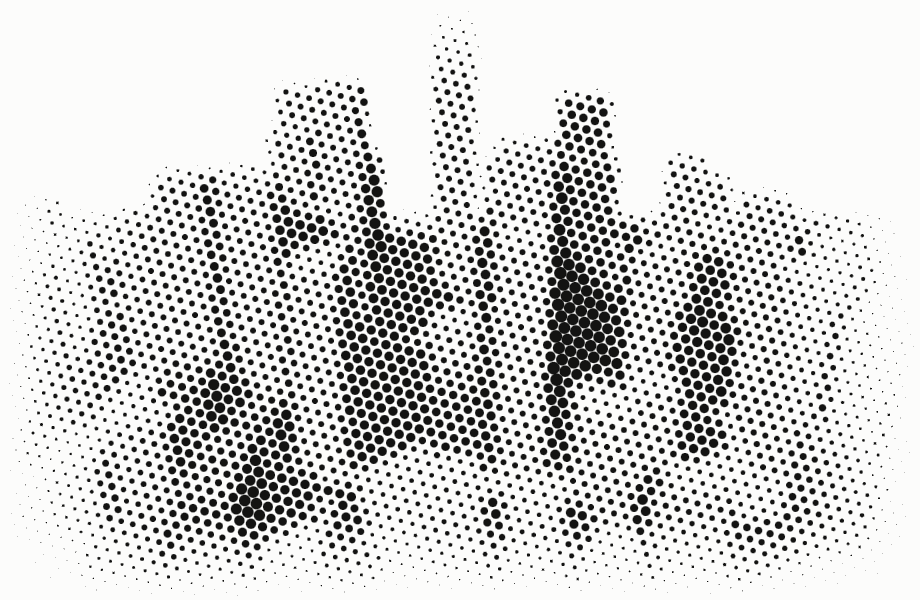
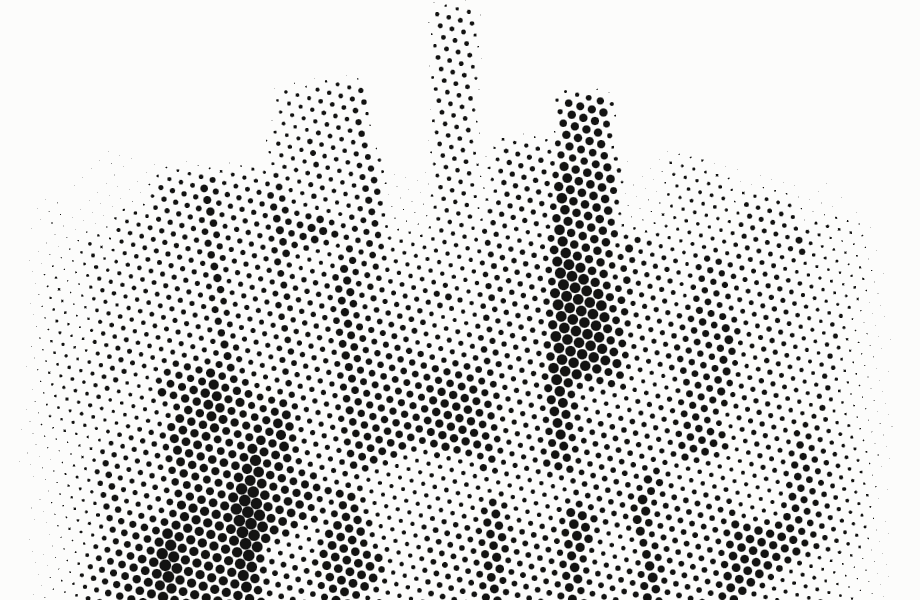
Give every subject a landscape through one shared ground helper

diff --git a/prototypes/dot-foundry.html b/prototypes/dot-foundry.html
@@ -53305,6 +53305,56 @@ const camFor = (id, role) => CAM_ROLE[id + ':' + role] || CAM[id];
    ground forms then have something to work with. */
 const TONES = ['#D6D6D4', '#B8B8B6', '#9C9C9A', '#7A7A78', '#565654'];
 
+/* One ground for every subject, so five hand-rolled slabs cannot drift into
+   five different landscapes. Three parts: a displaced plane, a ridge silhouette
+   at the far edge, and a sparse scatter between the two. All primitives, all
+   driven by the subject's seeded rnd, so scenes stay deterministic. */
+function ground(g, TONE, rnd, o){
+  const amp = o.amp != null ? o.amp : 1.0;
+  const flat = o.flat != null ? o.flat : 26;
+  if (o.plane !== false){
+    const geo = new THREE.PlaneGeometry(o.w, o.d, 60, 44);
+    geo.rotateX(-Math.PI/2);
+    const p = geo.attributes.position;
+    for (let i=0;i<p.count;i++){
+      const x = p.getX(i), z = p.getZ(i);
+      /* Displacement is held at zero across the subject's footprint and ramps
+         in beyond it. Without this, a container yard sitting at y = 0 sinks
+         into a trough or floats over a crest and the scene reads as broken. */
+      const k = Math.min(1, Math.max(0, (Math.hypot(x, z) - flat) / 14));
+      const n = Math.sin(x*.09)*0.9 + Math.cos(z*.11)*0.7 + Math.sin((x+z)*.05)*1.1;
+      p.setY(i, n * amp * k);
+    }
+    geo.computeVertexNormals();
+    const plane = new THREE.Mesh(geo, TONE[1]);
+    plane.position.y = -0.2;
+    plane.receiveShadow = true;
+    g.add(plane);
+  }
+
+  if (o.ridge){
+    /* The far horizon, in the lightest tone so it reads as distance rather than
+       as a second subject. Fog thins it further at render time. */
+    const far = -o.d/2 + 4;
+    for (let i=0;i<26;i++){
+      const w = o.w/26;
+      const h = o.ridge * (0.45 + rnd()*0.55);
+      const m = new THREE.Mesh(new THREE.BoxGeometry(w*1.35, h, 6), TONE[0]);
+      m.position.set(-o.w/2 + i*w + w/2, h/2 - 1, far + (rnd()-.5)*5);
+      g.add(m);
+    }
+  }
+
+  for (let i=0;i<(o.scatter||0);i++){
+    const a = rnd()*Math.PI*2;
+    const r = flat + 6 + rnd()*(o.d/2 - flat - 8);
+    const h = 1.2 + rnd()*3.4;
+    const m = new THREE.Mesh(new THREE.BoxGeometry(1.6+rnd()*2.2, h, 1.6+rnd()*2.2), TONE[0]);
+    m.position.set(Math.cos(a)*r, h/2, Math.sin(a)*r - o.d*0.12);
+    g.add(m);
+  }
+}
+
 function buildScene(id){
   const s = new THREE.Scene();
   s.background = new THREE.Color(0xffffff);
@@ -53354,7 +53404,7 @@ function buildScene(id){
     }
     for (let i=0;i<18;i++) for (let k=0;k<3;k++)
       box(2.6,1.25,1.4, -24+i*2.6, 5.6+k*1.32, 24+(rnd()-.5)*2.6, rnd()>.5?dark:mat);
-    box(96,.4,54, 0,-.2,4, mat);
+    ground(g, TONE, rnd, { w: 150, d: 120, amp: 1.0, flat: 44, ridge: 5.5, scatter: 22 });
   }
 
   if (id === 'datacenter'){
@@ -53363,7 +53413,7 @@ function buildScene(id){
       box(1.9,6.4,2.0, x, 3.2, z, rnd()>.7?dark:mat);
       box(1.9,.28,2.0, x, 6.5, z, dark);
     }
-    box(60,.4,50, 0,-.2,0, mat);
+    ground(g, TONE, rnd, { w: 120, d: 110, amp: 0.8, flat: 30, ridge: 4.0, scatter: 16 });
   }
 
   if (id === 'wind'){
@@ -53375,6 +53425,7 @@ function buildScene(id){
     }
     terr.computeVertexNormals();
     const t = new THREE.Mesh(terr, mat); t.receiveShadow = true; g.add(t);
+    ground(g, TONE, rnd, { w: 160, d: 130, plane: false, ridge: 6.0, scatter: 20 });
     for (let i=0;i<14;i++){
       const x = -34 + (i%5)*17 + (rnd()-.5)*6, z = -22 + Math.floor(i/5)*16 + (rnd()-.5)*6;
       const yb = Math.sin(x*.13)*1.5 + Math.cos(z*.16)*1.2 + Math.sin((x+z)*.07)*1.8;
@@ -53392,7 +53443,7 @@ function buildScene(id){
   }
 
   if (id === 'robotics'){
-    box(58,.4,40, 0,-.2,0, mat);
+    ground(g, TONE, rnd, { w: 90, d: 80, amp: 0.5, flat: 32, ridge: 0, scatter: 0 });
     /* a segment pivots at its own base and hands back a group at its tip, which
        is the only way an articulated silhouette reads as a robot rather than a post */
     const limb = (parent, len, w, angle) => {
@@ -53426,7 +53477,7 @@ function buildScene(id){
   }
 
   if (id === 'grid'){
-    box(90,.4,50, 0,-.2,0, mat);
+    ground(g, TONE, rnd, { w: 190, d: 150, amp: 1.2, flat: 12, ridge: 7.0, scatter: 30 });
     const tops = [];
     for (let i=0;i<5;i++){
       const x = -34 + i*17, base = 0;
@@ -53467,7 +53518,7 @@ function buildScene(id){
       const h = Math.max(1.2, (1-dist)*rnd()*26 + rnd()*3);
       box(2.7,h,2.7, cx, h/2, cz, rnd()>.72?dark:mat);
     }
-    box(80,.4,60, 0,-.2,0, mat);
+    ground(g, TONE, rnd, { w: 140, d: 120, amp: 0.9, flat: 36, ridge: 5.0, scatter: 18 });
   }
 
   s.add(g);
@@ -53674,7 +53725,7 @@ function renderRole(renderer, stage, id, role, mode, overrides){
 global.DotFoundry = {
   CONST, ROLES, MODES, SUBJECTS, CAM, EDGE_ROLE, TONES,
   buildScene, renderSource, luminanceField, sample, boxAvg, edge, fadeSet, screen, asciiOf,
-  renderRole, camFor, CAM_ROLE, fadeFor,
+  renderRole, camFor, CAM_ROLE, fadeFor, ground,
 };
 })(window);
 </script>

diff --git a/prototypes/dot-render.html b/prototypes/dot-render.html
@@ -53161,6 +53161,56 @@ const camFor = (id, role) => CAM_ROLE[id + ':' + role] || CAM[id];
    ground forms then have something to work with. */
 const TONES = ['#D6D6D4', '#B8B8B6', '#9C9C9A', '#7A7A78', '#565654'];
 
+/* One ground for every subject, so five hand-rolled slabs cannot drift into
+   five different landscapes. Three parts: a displaced plane, a ridge silhouette
+   at the far edge, and a sparse scatter between the two. All primitives, all
+   driven by the subject's seeded rnd, so scenes stay deterministic. */
+function ground(g, TONE, rnd, o){
+  const amp = o.amp != null ? o.amp : 1.0;
+  const flat = o.flat != null ? o.flat : 26;
+  if (o.plane !== false){
+    const geo = new THREE.PlaneGeometry(o.w, o.d, 60, 44);
+    geo.rotateX(-Math.PI/2);
+    const p = geo.attributes.position;
+    for (let i=0;i<p.count;i++){
+      const x = p.getX(i), z = p.getZ(i);
+      /* Displacement is held at zero across the subject's footprint and ramps
+         in beyond it. Without this, a container yard sitting at y = 0 sinks
+         into a trough or floats over a crest and the scene reads as broken. */
+      const k = Math.min(1, Math.max(0, (Math.hypot(x, z) - flat) / 14));
+      const n = Math.sin(x*.09)*0.9 + Math.cos(z*.11)*0.7 + Math.sin((x+z)*.05)*1.1;
+      p.setY(i, n * amp * k);
+    }
+    geo.computeVertexNormals();
+    const plane = new THREE.Mesh(geo, TONE[1]);
+    plane.position.y = -0.2;
+    plane.receiveShadow = true;
+    g.add(plane);
+  }
+
+  if (o.ridge){
+    /* The far horizon, in the lightest tone so it reads as distance rather than
+       as a second subject. Fog thins it further at render time. */
+    const far = -o.d/2 + 4;
+    for (let i=0;i<26;i++){
+      const w = o.w/26;
+      const h = o.ridge * (0.45 + rnd()*0.55);
+      const m = new THREE.Mesh(new THREE.BoxGeometry(w*1.35, h, 6), TONE[0]);
+      m.position.set(-o.w/2 + i*w + w/2, h/2 - 1, far + (rnd()-.5)*5);
+      g.add(m);
+    }
+  }
+
+  for (let i=0;i<(o.scatter||0);i++){
+    const a = rnd()*Math.PI*2;
+    const r = flat + 6 + rnd()*(o.d/2 - flat - 8);
+    const h = 1.2 + rnd()*3.4;
+    const m = new THREE.Mesh(new THREE.BoxGeometry(1.6+rnd()*2.2, h, 1.6+rnd()*2.2), TONE[0]);
+    m.position.set(Math.cos(a)*r, h/2, Math.sin(a)*r - o.d*0.12);
+    g.add(m);
+  }
+}
+
 function buildScene(id){
   const s = new THREE.Scene();
   s.background = new THREE.Color(0xffffff);
@@ -53210,7 +53260,7 @@ function buildScene(id){
     }
     for (let i=0;i<18;i++) for (let k=0;k<3;k++)
       box(2.6,1.25,1.4, -24+i*2.6, 5.6+k*1.32, 24+(rnd()-.5)*2.6, rnd()>.5?dark:mat);
-    box(96,.4,54, 0,-.2,4, mat);
+    ground(g, TONE, rnd, { w: 150, d: 120, amp: 1.0, flat: 44, ridge: 5.5, scatter: 22 });
   }
 
   if (id === 'datacenter'){
@@ -53219,7 +53269,7 @@ function buildScene(id){
       box(1.9,6.4,2.0, x, 3.2, z, rnd()>.7?dark:mat);
       box(1.9,.28,2.0, x, 6.5, z, dark);
     }
-    box(60,.4,50, 0,-.2,0, mat);
+    ground(g, TONE, rnd, { w: 120, d: 110, amp: 0.8, flat: 30, ridge: 4.0, scatter: 16 });
   }
 
   if (id === 'wind'){
@@ -53231,6 +53281,7 @@ function buildScene(id){
     }
     terr.computeVertexNormals();
     const t = new THREE.Mesh(terr, mat); t.receiveShadow = true; g.add(t);
+    ground(g, TONE, rnd, { w: 160, d: 130, plane: false, ridge: 6.0, scatter: 20 });
     for (let i=0;i<14;i++){
       const x = -34 + (i%5)*17 + (rnd()-.5)*6, z = -22 + Math.floor(i/5)*16 + (rnd()-.5)*6;
       const yb = Math.sin(x*.13)*1.5 + Math.cos(z*.16)*1.2 + Math.sin((x+z)*.07)*1.8;
@@ -53248,7 +53299,7 @@ function buildScene(id){
   }
 
   if (id === 'robotics'){
-    box(58,.4,40, 0,-.2,0, mat);
+    ground(g, TONE, rnd, { w: 90, d: 80, amp: 0.5, flat: 32, ridge: 0, scatter: 0 });
     /* a segment pivots at its own base and hands back a group at its tip, which
        is the only way an articulated silhouette reads as a robot rather than a post */
     const limb = (parent, len, w, angle) => {
@@ -53282,7 +53333,7 @@ function buildScene(id){
   }
 
   if (id === 'grid'){
-    box(90,.4,50, 0,-.2,0, mat);
+    ground(g, TONE, rnd, { w: 190, d: 150, amp: 1.2, flat: 12, ridge: 7.0, scatter: 30 });
     const tops = [];
     for (let i=0;i<5;i++){
       const x = -34 + i*17, base = 0;
@@ -53323,7 +53374,7 @@ function buildScene(id){
       const h = Math.max(1.2, (1-dist)*rnd()*26 + rnd()*3);
       box(2.7,h,2.7, cx, h/2, cz, rnd()>.72?dark:mat);
     }
-    box(80,.4,60, 0,-.2,0, mat);
+    ground(g, TONE, rnd, { w: 140, d: 120, amp: 0.9, flat: 36, ridge: 5.0, scatter: 18 });
   }
 
   s.add(g);
@@ -53530,7 +53581,7 @@ function renderRole(renderer, stage, id, role, mode, overrides){
 global.DotFoundry = {
   CONST, ROLES, MODES, SUBJECTS, CAM, EDGE_ROLE, TONES,
   buildScene, renderSource, luminanceField, sample, boxAvg, edge, fadeSet, screen, asciiOf,
-  renderRole, camFor, CAM_ROLE, fadeFor,
+  renderRole, camFor, CAM_ROLE, fadeFor, ground,
 };
 })(window);
 </script>

diff --git a/prototypes/dot-engine.js b/prototypes/dot-engine.js
@@ -102,6 +102,56 @@ const camFor = (id, role) => CAM_ROLE[id + ':' + role] || CAM[id];
    ground forms then have something to work with. */
 const TONES = ['#D6D6D4', '#B8B8B6', '#9C9C9A', '#7A7A78', '#565654'];
 
+/* One ground for every subject, so five hand-rolled slabs cannot drift into
+   five different landscapes. Three parts: a displaced plane, a ridge silhouette
+   at the far edge, and a sparse scatter between the two. All primitives, all
+   driven by the subject's seeded rnd, so scenes stay deterministic. */
+function ground(g, TONE, rnd, o){
+  const amp = o.amp != null ? o.amp : 1.0;
+  const flat = o.flat != null ? o.flat : 26;
+  if (o.plane !== false){
+    const geo = new THREE.PlaneGeometry(o.w, o.d, 60, 44);
+    geo.rotateX(-Math.PI/2);
+    const p = geo.attributes.position;
+    for (let i=0;i<p.count;i++){
+      const x = p.getX(i), z = p.getZ(i);
+      /* Displacement is held at zero across the subject's footprint and ramps
+         in beyond it. Without this, a container yard sitting at y = 0 sinks
+         into a trough or floats over a crest and the scene reads as broken. */
+      const k = Math.min(1, Math.max(0, (Math.hypot(x, z) - flat) / 14));
+      const n = Math.sin(x*.09)*0.9 + Math.cos(z*.11)*0.7 + Math.sin((x+z)*.05)*1.1;
+      p.setY(i, n * amp * k);
+    }
+    geo.computeVertexNormals();
+    const plane = new THREE.Mesh(geo, TONE[1]);
+    plane.position.y = -0.2;
+    plane.receiveShadow = true;
+    g.add(plane);
+  }
+
+  if (o.ridge){
+    /* The far horizon, in the lightest tone so it reads as distance rather than
+       as a second subject. Fog thins it further at render time. */
+    const far = -o.d/2 + 4;
+    for (let i=0;i<26;i++){
+      const w = o.w/26;
+      const h = o.ridge * (0.45 + rnd()*0.55);
+      const m = new THREE.Mesh(new THREE.BoxGeometry(w*1.35, h, 6), TONE[0]);
+      m.position.set(-o.w/2 + i*w + w/2, h/2 - 1, far + (rnd()-.5)*5);
+      g.add(m);
+    }
+  }
+
+  for (let i=0;i<(o.scatter||0);i++){
+    const a = rnd()*Math.PI*2;
+    const r = flat + 6 + rnd()*(o.d/2 - flat - 8);
+    const h = 1.2 + rnd()*3.4;
+    const m = new THREE.Mesh(new THREE.BoxGeometry(1.6+rnd()*2.2, h, 1.6+rnd()*2.2), TONE[0]);
+    m.position.set(Math.cos(a)*r, h/2, Math.sin(a)*r - o.d*0.12);
+    g.add(m);
+  }
+}
+
 function buildScene(id){
   const s = new THREE.Scene();
   s.background = new THREE.Color(0xffffff);
@@ -151,7 +201,7 @@ function buildScene(id){
     }
     for (let i=0;i<18;i++) for (let k=0;k<3;k++)
       box(2.6,1.25,1.4, -24+i*2.6, 5.6+k*1.32, 24+(rnd()-.5)*2.6, rnd()>.5?dark:mat);
-    box(96,.4,54, 0,-.2,4, mat);
+    ground(g, TONE, rnd, { w: 150, d: 120, amp: 1.0, flat: 44, ridge: 5.5, scatter: 22 });
   }
 
   if (id === 'datacenter'){
@@ -160,7 +210,7 @@ function buildScene(id){
       box(1.9,6.4,2.0, x, 3.2, z, rnd()>.7?dark:mat);
       box(1.9,.28,2.0, x, 6.5, z, dark);
     }
-    box(60,.4,50, 0,-.2,0, mat);
+    ground(g, TONE, rnd, { w: 120, d: 110, amp: 0.8, flat: 30, ridge: 4.0, scatter: 16 });
   }
 
   if (id === 'wind'){
@@ -172,6 +222,7 @@ function buildScene(id){
     }
     terr.computeVertexNormals();
     const t = new THREE.Mesh(terr, mat); t.receiveShadow = true; g.add(t);
+    ground(g, TONE, rnd, { w: 160, d: 130, plane: false, ridge: 6.0, scatter: 20 });
     for (let i=0;i<14;i++){
       const x = -34 + (i%5)*17 + (rnd()-.5)*6, z = -22 + Math.floor(i/5)*16 + (rnd()-.5)*6;
       const yb = Math.sin(x*.13)*1.5 + Math.cos(z*.16)*1.2 + Math.sin((x+z)*.07)*1.8;
@@ -189,7 +240,7 @@ function buildScene(id){
   }
 
   if (id === 'robotics'){
-    box(58,.4,40, 0,-.2,0, mat);
+    ground(g, TONE, rnd, { w: 90, d: 80, amp: 0.5, flat: 32, ridge: 0, scatter: 0 });
     /* a segment pivots at its own base and hands back a group at its tip, which
        is the only way an articulated silhouette reads as a robot rather than a post */
     const limb = (parent, len, w, angle) => {
@@ -223,7 +274,7 @@ function buildScene(id){
   }
 
   if (id === 'grid'){
-    box(90,.4,50, 0,-.2,0, mat);
+    ground(g, TONE, rnd, { w: 190, d: 150, amp: 1.2, flat: 12, ridge: 7.0, scatter: 30 });
     const tops = [];
     for (let i=0;i<5;i++){
       const x = -34 + i*17, base = 0;
@@ -264,7 +315,7 @@ function buildScene(id){
       const h = Math.max(1.2, (1-dist)*rnd()*26 + rnd()*3);
       box(2.7,h,2.7, cx, h/2, cz, rnd()>.72?dark:mat);
     }
-    box(80,.4,60, 0,-.2,0, mat);
+    ground(g, TONE, rnd, { w: 140, d: 120, amp: 0.9, flat: 36, ridge: 5.0, scatter: 18 });
   }
 
   s.add(g);
@@ -471,6 +522,6 @@ function renderRole(renderer, stage, id, role, mode, overrides){
 global.DotFoundry = {
   CONST, ROLES, MODES, SUBJECTS, CAM, EDGE_ROLE, TONES,
   buildScene, renderSource, luminanceField, sample, boxAvg, edge, fadeSet, screen, asciiOf,
-  renderRole, camFor, CAM_ROLE, fadeFor,
+  renderRole, camFor, CAM_ROLE, fadeFor, ground,
 };
 })(window);

diff --git a/tests/dot-engine.test.ts b/tests/dot-engine.test.ts
@@ -163,3 +163,26 @@ describe('fog constants', () => {
     expect((E as any).FOG).toBeUndefined();
   });
 });
+
+describe('ground forms', () => {
+  const source = () =>
+    readFileSync(fileURLToPath(new URL('../prototypes/dot-engine.js', import.meta.url)), 'utf8');
+
+  it('exposes the shared helper', () => {
+    const E = loadEngine();
+    expect(typeof E.ground).toBe('function');
+  });
+
+  // Five subjects each added a single thin box as ground. docs/dot-imagery.md
+  // lists "a ground plane filling a third of the frame with flat mid-grey" as a
+  // standard cause of a failed recognition test, so leaving one behind is a
+  // known defect, not a style preference.
+  it('leaves no subject standing on a bare slab', () => {
+    expect(source()).not.toMatch(/box\(\s*\d+\s*,\s*\.4\s*,\s*\d+/);
+  });
+
+  it('is called once by every subject', () => {
+    const calls = source().match(/^\s*ground\(g, TONE, rnd, \{/gm) ?? [];
+    expect(calls).toHaveLength(6);
+  });
+});
